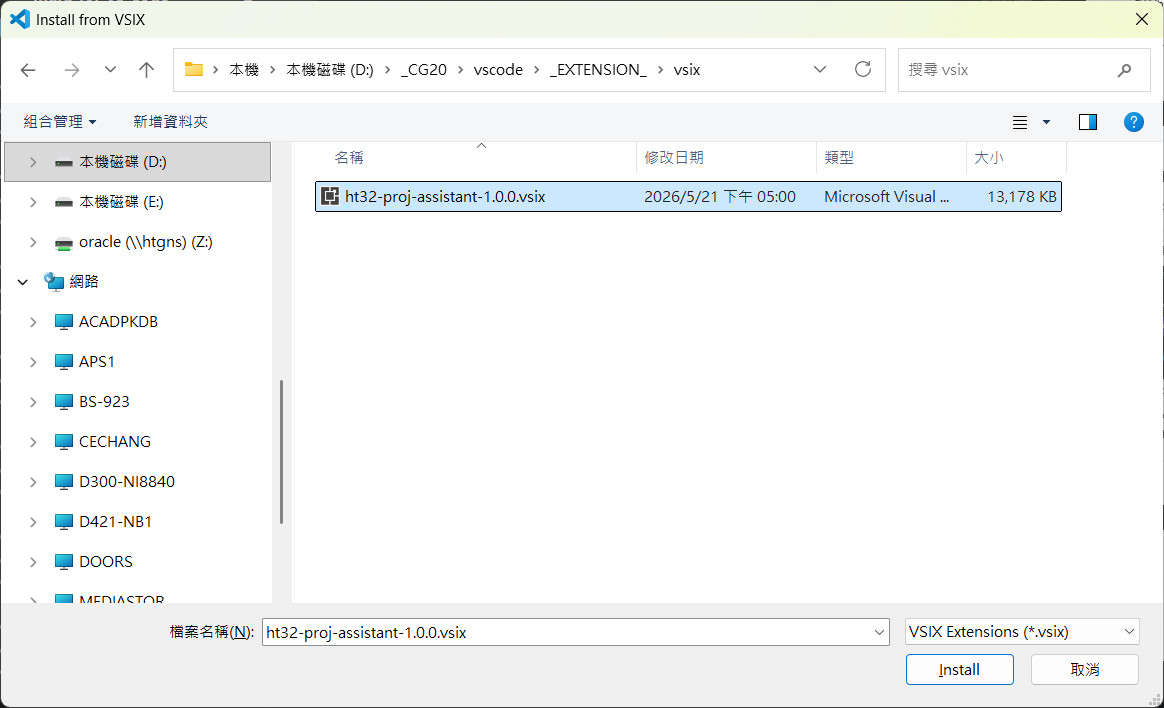
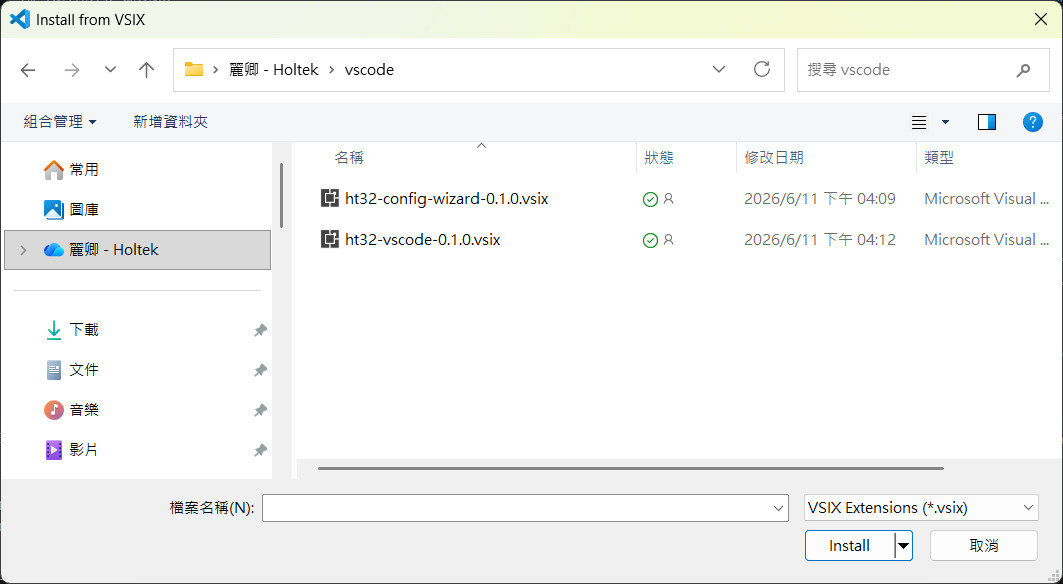
update

diff --git a/README.md b/README.md
@@ -1,4 +1,4 @@
-[中文使用手冊](https://ht32-holtek.github.io/ht32-vscode/README_TRAD) | [English](#holtek-ht32-vs-code-extension)
+[中文使用手冊](http://mcutest.holtek.com.tw/ht32-vscode/README_TRAD) | [English](#holtek-ht32-vs-code-extension)
 
 # Holtek HT32 VS Code Extension
 
@@ -33,7 +33,7 @@ A VS Code extension for **Holtek HT32** series Cortex-M microcontrollers (M0+/M3
 
 > **GCC toolchain:** Auto-detected on startup; installed automatically via winget if not found, or set manually in settings.<br>
 > **OpenOCD:** Bundled — no separate installation needed.<br>
-> **Extension dependencies:** [Cortex-Debug](https://marketplace.visualstudio.com/items?itemName=marus25.cortex-debug) and [Holtek Configuration Wizard](https://marketplace.visualstudio.com/items?itemName=holtek-semi.ht32-config-wizard) are installed automatically.
+> **Extension dependencies:** [Cortex-Debug](https://marketplace.visualstudio.com/items?itemName=marus25.cortex-debug) and [Holtek Configuration Wizard](https://marketplace.visualstudio.com/items?itemName=holtek.ht32-config-wizard) are installed automatically.
 
 ---
 
@@ -45,8 +45,8 @@ A VS Code extension for **Holtek HT32** series Cortex-M microcontrollers (M0+/M3
 2. Select `ht32-vscode-x.x.x.vsix`
 
 <table><tr>
-<td><img src="https://ht32-holtek.github.io/ht32-vscode/media/1.jpg" width="350" style="border:1px solid #ccc; border-radius:4px; padding:3px;"></td>
-<td><img src="https://ht32-holtek.github.io/ht32-vscode/media/2.jpg" width="350" style="border:1px solid #ccc; border-radius:4px; padding:3px;"></td>
+<td><img src="https://raw.githubusercontent.com/ht32-holtek/ht32-vscode/main/media/1.jpg" width="350" style="border:1px solid #ccc; border-radius:4px; padding:3px;"></td>
+<td><img src="https://raw.githubusercontent.com/ht32-holtek/ht32-vscode/main/media/2.jpg" width="350" style="border:1px solid #ccc; border-radius:4px; padding:3px;"></td>
 </tr></table>
 
 ---
@@ -56,7 +56,7 @@ A VS Code extension for **Holtek HT32** series Cortex-M microcontrollers (M0+/M3
 1. Search `Holtek HT32 VS Code Extension` in the Extensions view
 2. Click **Install**
 
-<img src="https://ht32-holtek.github.io/ht32-vscode/media/3.jpg" width="300" style="border:1px solid #ccc; border-radius:4px; padding:3px;">
+<img src="https://raw.githubusercontent.com/ht32-holtek/ht32-vscode/main/media/3.jpg" width="300" style="border:1px solid #ccc; border-radius:4px; padding:3px;">
 
 ---
 
@@ -66,7 +66,7 @@ After installation, the **HT32 icon** appears in the Activity Bar. Click it to o
 
 **When no project is open:** shows **Create / Open / Convert** buttons, plus a **Recent Projects** list below for quick access.
 
-<img src="https://ht32-holtek.github.io/ht32-vscode/media/4.jpg" width="300" style="border:1px solid #ccc; border-radius:4px; padding:3px;">
+<img src="https://raw.githubusercontent.com/ht32-holtek/ht32-vscode/main/media/4.jpg" width="300" style="border:1px solid #ccc; border-radius:4px; padding:3px;">
 
 ---
 
@@ -85,7 +85,7 @@ After installation, the **HT32 icon** appears in the Activity Bar. Click it to o
 
 **Project File Tree** (bottom of the HT32 panel) shows source groups — the same group concept as Keil uVision.
 
-<img src="https://ht32-holtek.github.io/ht32-vscode/media/5.jpg" width="300" style="border:1px solid #ccc; border-radius:4px; padding:3px;">
+<img src="https://raw.githubusercontent.com/ht32-holtek/ht32-vscode/main/media/5.jpg" width="300" style="border:1px solid #ccc; border-radius:4px; padding:3px;">
 
 Right-click menu:
 
@@ -113,7 +113,7 @@ Right-click menu:
 | ③ | Choose output type: **Application** or **Library** |
 | ④ | Enter **project name** and save location |
 
-<img src="https://ht32-holtek.github.io/ht32-vscode/media/6.jpg" width="450" style="border:1px solid #ccc; border-radius:4px; padding:3px;">
+<img src="https://raw.githubusercontent.com/ht32-holtek/ht32-vscode/main/media/6.jpg" width="450" style="border:1px solid #ccc; border-radius:4px; padding:3px;">
 
 ---
 
@@ -178,9 +178,9 @@ For `.uvmpw`, **all sub-projects are converted at once**, each into its own `.vs
 
 Conversion warnings (e.g. prebuilt `.lib` files that cannot be used with GCC) appear in the VS Code **Problems** panel.
 
-<img src="https://ht32-holtek.github.io/ht32-vscode/media/18.png" width="600" style="border:1px solid #ccc; border-radius:4px; padding:3px;">
+<img src="https://raw.githubusercontent.com/ht32-holtek/ht32-vscode/main/media/18.png" width="600" style="border:1px solid #ccc; border-radius:4px; padding:3px;">
 
-<img src="https://ht32-holtek.github.io/ht32-vscode/media/7.png" width="300" style="border:1px solid #ccc; border-radius:4px; padding:3px;">
+<img src="https://raw.githubusercontent.com/ht32-holtek/ht32-vscode/main/media/7.png" width="300" style="border:1px solid #ccc; border-radius:4px; padding:3px;">
 
 ---
 
@@ -198,11 +198,11 @@ If the folder contains multiple sub-projects, all are converted at once, each in
 - Click **Build** in the HT32 toolbar
 - Or press **Ctrl+Shift+B** to access VS Code tasks (Build, Build All, Clean, Download)
 
-<img src="https://ht32-holtek.github.io/ht32-vscode/media/8.jpg" width="500" style="border:1px solid #ccc; border-radius:4px; padding:3px;">
+<img src="https://raw.githubusercontent.com/ht32-holtek/ht32-vscode/main/media/8.jpg" width="500" style="border:1px solid #ccc; border-radius:4px; padding:3px;">
 
 A **Post-Build** command can be configured in Settings to run automatically after a successful build (e.g. CRC calculation).
 
-<img src="https://ht32-holtek.github.io/ht32-vscode/media/9.png" width="800" style="border:1px solid #ccc; border-radius:4px; padding:3px;">
+<img src="https://raw.githubusercontent.com/ht32-holtek/ht32-vscode/main/media/9.png" width="800" style="border:1px solid #ccc; border-radius:4px; padding:3px;">
 
 ---
 
@@ -221,7 +221,7 @@ A **Post-Build** command can be configured in Settings to run automatically afte
 2. Click **Download** in the HT32 toolbar
 3. Firmware is flashed automatically; progress is shown in the Terminal
 
-<img src="https://ht32-holtek.github.io/ht32-vscode/media/10.jpg" width="500" style="border:1px solid #ccc; border-radius:4px; padding:3px;">
+<img src="https://raw.githubusercontent.com/ht32-holtek/ht32-vscode/main/media/10.jpg" width="500" style="border:1px solid #ccc; border-radius:4px; padding:3px;">
 
 ### Flash Settings (configured in HT32 Settings)
 
@@ -256,7 +256,7 @@ Use this when the target board is already running and you don't need to reflash.
 | HT32 OpenOCD Debug | Compile → Flash → Start debug session |
 | HT32 OpenOCD Attach | Connect to running target without flashing |
 
-<img src="https://ht32-holtek.github.io/ht32-vscode/media/11.jpg" width="700" style="border:1px solid #ccc; border-radius:4px; padding:3px;">
+<img src="https://raw.githubusercontent.com/ht32-holtek/ht32-vscode/main/media/11.jpg" width="700" style="border:1px solid #ccc; border-radius:4px; padding:3px;">
 
 ---
 
@@ -282,7 +282,7 @@ Open via the **Settings** button in the HT32 toolbar. The panel has three tabs. 
 | Extra CFLAGS | Additional compiler flags, e.g. `-DDEBUG` |
 | Extra LDFLAGS | Additional linker flags |
 
-<img src="https://ht32-holtek.github.io/ht32-vscode/media/15.png" width="500" style="border:1px solid #ccc; border-radius:4px; padding:3px;">
+<img src="https://raw.githubusercontent.com/ht32-holtek/ht32-vscode/main/media/15.png" width="500" style="border:1px solid #ccc; border-radius:4px; padding:3px;">
 
 ---
 
@@ -299,8 +299,8 @@ Open via the **Settings** button in the HT32 toolbar. The panel has three tabs. 
 | Erase Mode | `erase_sector` (default) / `erase_chip` / `none` |
 | Flash Loaders | Add external flash loaders (e.g. SPI Flash) |
 
-<img src="https://ht32-holtek.github.io/ht32-vscode/media/16.png" width="700" style="border:1px solid #ccc; border-radius:4px; padding:3px;">
-<img src="https://ht32-holtek.github.io/ht32-vscode/media/17.png" width="700" style="border:1px solid #ccc; border-radius:4px; padding:3px;">
+<img src="https://raw.githubusercontent.com/ht32-holtek/ht32-vscode/main/media/16.png" width="700" style="border:1px solid #ccc; border-radius:4px; padding:3px;">
+<img src="https://raw.githubusercontent.com/ht32-holtek/ht32-vscode/main/media/17.png" width="700" style="border:1px solid #ccc; border-radius:4px; padding:3px;">
 
 ---
 
@@ -356,8 +356,8 @@ After conversion or project creation, the extension auto-generates:
 - `.clangd` (workspace root) — include paths, compiler flags
 - `.vscode/compile_commands.json` — merged for clangd
 
-<img src="https://ht32-holtek.github.io/ht32-vscode/media/13.jpg" width="700" style="border:1px solid #ccc; border-radius:4px; padding:3px;">
-<img src="https://ht32-holtek.github.io/ht32-vscode/media/14.jpg" width="700" style="border:1px solid #ccc; border-radius:4px; padding:3px;">
+<img src="https://raw.githubusercontent.com/ht32-holtek/ht32-vscode/main/media/13.jpg" width="700" style="border:1px solid #ccc; border-radius:4px; padding:3px;">
+<img src="https://raw.githubusercontent.com/ht32-holtek/ht32-vscode/main/media/14.jpg" width="700" style="border:1px solid #ccc; border-radius:4px; padding:3px;">
 
 Recommended: install the **clangd** extension (`llvm-vs-code-extensions.vscode-clangd`) and disable the built-in C/C++ IntelliSense to avoid conflicts.
 

diff --git a/README_TRAD.md b/README_TRAD.md
@@ -1,4 +1,4 @@
-[English](https://ht32-holtek.github.io/ht32-vscode/) | [中文使用手冊](#holtek-ht32-vs-code-extension)
+[English](http://mcutest.holtek.com.tw/ht32-vscode/) | [中文使用手冊](#holtek-ht32-vs-code-extension)
 
 # Holtek HT32 VS Code Extension
 Holtek HT32 系列 Cortex-M 微控制器專用 VS Code 擴充功能
@@ -28,8 +28,8 @@ Holtek HT32 系列 Cortex-M 微控制器專用 VS Code 擴充功能
 2. 選取 `ht32-vscode-x.x.x.vsix`
 
 <table><tr>
-<td><img src="https://ht32-holtek.github.io/ht32-vscode/media/1.jpg" width="350" style="border:1px solid #ccc; border-radius:4px; padding:3px;"></td>
-<td><img src="https://ht32-holtek.github.io/ht32-vscode/media/2.jpg" width="350" style="border:1px solid #ccc; border-radius:4px; padding:3px;"></td>
+<td><img src="https://raw.githubusercontent.com/ht32-holtek/ht32-vscode/main/media/1.jpg" width="350" style="border:1px solid #ccc; border-radius:4px; padding:3px;"></td>
+<td><img src="https://raw.githubusercontent.com/ht32-holtek/ht32-vscode/main/media/2.jpg" width="350" style="border:1px solid #ccc; border-radius:4px; padding:3px;"></td>
 </tr></table>
 
 ---
@@ -38,7 +38,7 @@ Holtek HT32 系列 Cortex-M 微控制器專用 VS Code 擴充功能
 1. 擴充功能搜尋欄輸入 `Holtek HT32 VS Code Extension`
 2. 點 **Install**
 
-<img src="https://ht32-holtek.github.io/ht32-vscode/media/3.jpg" width="300" style="border:1px solid #ccc; border-radius:4px; padding:3px;">
+<img src="https://raw.githubusercontent.com/ht32-holtek/ht32-vscode/main/media/3.jpg" width="300" style="border:1px solid #ccc; border-radius:4px; padding:3px;">
 
 ---
 
@@ -48,7 +48,7 @@ Holtek HT32 系列 Cortex-M 微控制器專用 VS Code 擴充功能
 
 專案未開啟時顯示 **Create / Open / Convert** 按鈕；若有歷史記錄，下方會列出 **Recent Projects**，點擊即可直接開啟。
 
-<img src="https://ht32-holtek.github.io/ht32-vscode/media/4.jpg" width="300" style="border:1px solid #ccc; border-radius:4px; padding:3px;">
+<img src="https://raw.githubusercontent.com/ht32-holtek/ht32-vscode/main/media/4.jpg" width="300" style="border:1px solid #ccc; border-radius:4px; padding:3px;">
 
 
 ---
@@ -71,7 +71,7 @@ Holtek HT32 系列 Cortex-M 微控制器專用 VS Code 擴充功能
 
 HT32 面板下方顯示專案的原始碼群組結構（Source Groups），與 Keil uVision 的群組概念相同。
 
-<img src="https://ht32-holtek.github.io/ht32-vscode/media/5.jpg" width="300" style="border:1px solid #ccc; border-radius:4px; padding:3px;">
+<img src="https://raw.githubusercontent.com/ht32-holtek/ht32-vscode/main/media/5.jpg" width="300" style="border:1px solid #ccc; border-radius:4px; padding:3px;">
 
 右鍵選單支援以下操作：
 
@@ -97,7 +97,7 @@ HT32 面板下方顯示專案的原始碼群組結構（Source Groups），與 K
 | ③ | 選擇輸出類型：**Application** 或 **Library** |
 | ④ | 輸入**專案名稱**和儲存位置 |
 
-<img src="https://ht32-holtek.github.io/ht32-vscode/media/6.jpg" width="450" style="border:1px solid #ccc; border-radius:4px; padding:3px;">
+<img src="https://raw.githubusercontent.com/ht32-holtek/ht32-vscode/main/media/6.jpg" width="450" style="border:1px solid #ccc; border-radius:4px; padding:3px;">
 
 ---
 
@@ -151,7 +151,7 @@ HT32 面板下方顯示專案的原始碼群組結構（Source Groups），與 K
 
 如 Keil 預編譯 `.lib` 無法用於 GCC 工具鏈）會顯示在 VS Code **Problems** 面板中。
 
-<img src="https://ht32-holtek.github.io/ht32-vscode/media/18.png" width="600" style="border:1px solid #ccc; border-radius:4px; padding:3px;">
+<img src="https://raw.githubusercontent.com/ht32-holtek/ht32-vscode/main/media/18.png" width="600" style="border:1px solid #ccc; border-radius:4px; padding:3px;">
 
 
 ```
@@ -169,7 +169,7 @@ HT32 面板下方顯示專案的原始碼群組結構（Source Groups），與 K
 ```
 
 
-<img src="https://ht32-holtek.github.io/ht32-vscode/media/7.png" width="300" style="border:1px solid #ccc; border-radius:4px; padding:3px;">
+<img src="https://raw.githubusercontent.com/ht32-holtek/ht32-vscode/main/media/7.png" width="300" style="border:1px solid #ccc; border-radius:4px; padding:3px;">
 
 ---
 
@@ -191,11 +191,11 @@ HT32 面板下方顯示專案的原始碼群組結構（Source Groups），與 K
 - HT32 工具列點 **Build**
 - 或按 `Ctrl+Shift+B`（直接執行預設建置任務 **Build (make)**）
 
-<img src="https://ht32-holtek.github.io/ht32-vscode/media/8.jpg" width="500" style="border:1px solid #ccc; border-radius:4px; padding:3px;">
+<img src="https://raw.githubusercontent.com/ht32-holtek/ht32-vscode/main/media/8.jpg" width="500" style="border:1px solid #ccc; border-radius:4px; padding:3px;">
 
 也可在「專案設定」中設定 **Post-Build** 命令，Build 成功後自動執行（例如 CRC 計算）。
 
-<img src="https://ht32-holtek.github.io/ht32-vscode/media/9.png" width="800" style="border:1px solid #ccc; border-radius:4px; padding:3px;">
+<img src="https://raw.githubusercontent.com/ht32-holtek/ht32-vscode/main/media/9.png" width="800" style="border:1px solid #ccc; border-radius:4px; padding:3px;">
 
 ---
 
@@ -214,7 +214,7 @@ HT32 面板下方顯示專案的原始碼群組結構（Source Groups），與 K
 2. HT32 工具列點 **Download**
 3. 韌體自動燒錄，Terminal 顯示進度
 
-<img src="https://ht32-holtek.github.io/ht32-vscode/media/10.jpg" width="500" style="border:1px solid #ccc; border-radius:4px; padding:3px;">
+<img src="https://raw.githubusercontent.com/ht32-holtek/ht32-vscode/main/media/10.jpg" width="500" style="border:1px solid #ccc; border-radius:4px; padding:3px;">
 
 ### 燒錄設定
 
@@ -250,7 +250,7 @@ HT32 面板下方顯示專案的原始碼群組結構（Source Groups），與 K
 | HT32 OpenOCD Debug | 編譯→燒錄→啟動除錯（完整流程） |
 | HT32 OpenOCD Attach | 不燒錄，直接附接到已執行中的目標 |
 
-<img src="https://ht32-holtek.github.io/ht32-vscode/media/11.jpg" width="700" style="border:1px solid #ccc; border-radius:4px; padding:3px;">
+<img src="https://raw.githubusercontent.com/ht32-holtek/ht32-vscode/main/media/11.jpg" width="700" style="border:1px solid #ccc; border-radius:4px; padding:3px;">
 
 ---
 
@@ -276,7 +276,7 @@ HT32 工具列點 **Settings** 開啟設定面板，面板分為三個分頁：
 | Extra CFLAGS | 附加編譯旗標，例如 `-DDEBUG` |
 | Extra LDFLAGS | 附加連結旗標 |
 
-<img src="https://ht32-holtek.github.io/ht32-vscode/media/15.png" width="500" style="border:1px solid #ccc; border-radius:4px; padding:3px;">
+<img src="https://raw.githubusercontent.com/ht32-holtek/ht32-vscode/main/media/15.png" width="500" style="border:1px solid #ccc; border-radius:4px; padding:3px;">
 
 ### Debugger 分頁
 
@@ -291,8 +291,8 @@ HT32 工具列點 **Settings** 開啟設定面板，面板分為三個分頁：
 | Erase Mode | `erase_sector`（預設）/ `erase_chip` / `none` |
 | Flash Loaders | 附加外部 Flash Loader（例如 SPI Flash） |
 
-<img src="https://ht32-holtek.github.io/ht32-vscode/media/16.png" width="700" style="border:1px solid #ccc; border-radius:4px; padding:3px;">
-<img src="https://ht32-holtek.github.io/ht32-vscode/media/17.png" width="700" style="border:1px solid #ccc; border-radius:4px; padding:3px;">
+<img src="https://raw.githubusercontent.com/ht32-holtek/ht32-vscode/main/media/16.png" width="700" style="border:1px solid #ccc; border-radius:4px; padding:3px;">
+<img src="https://raw.githubusercontent.com/ht32-holtek/ht32-vscode/main/media/17.png" width="700" style="border:1px solid #ccc; border-radius:4px; padding:3px;">
 
 ### Build 分頁
 
@@ -349,8 +349,8 @@ HT32 工具列點 **Settings** 開啟設定面板，面板分為三個分頁：
 - `.clangd`（workspace root）— include 路徑、編譯旗標
 - `.vscode/compile_commands.json` — 合併版，供 clangd 使用
 
-<img src="https://ht32-holtek.github.io/ht32-vscode/media/13.jpg" width="700" style="border:1px solid #ccc; border-radius:4px; padding:3px;">
-<img src="https://ht32-holtek.github.io/ht32-vscode/media/14.jpg" width="700" style="border:1px solid #ccc; border-radius:4px; padding:3px;">
+<img src="https://raw.githubusercontent.com/ht32-holtek/ht32-vscode/main/media/13.jpg" width="700" style="border:1px solid #ccc; border-radius:4px; padding:3px;">
+<img src="https://raw.githubusercontent.com/ht32-holtek/ht32-vscode/main/media/14.jpg" width="700" style="border:1px solid #ccc; border-radius:4px; padding:3px;">
 
 建議安裝 **clangd** 擴充功能（`llvm-vs-code-extensions.vscode-clangd`）並停用內建 C/C++ IntelliSense 以避免衝突。
 